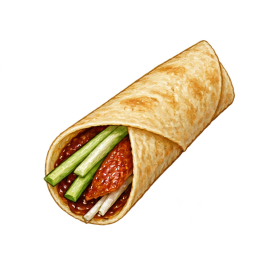
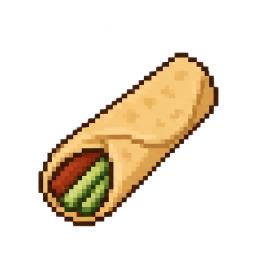
docs: redraw food and gesture assets in pixel game style

Changed region(s): [[0.125, 0.1562, 0.9375, 0.9062]]

diff --git a/docs/design/UI-KIT.md b/docs/design/UI-KIT.md
@@ -46,9 +46,9 @@ English uses Bree Serif at 36 / 28 / 24 / 20 / 16 px for display, title, control
 
 ## Food and numbered gestures / 食物与数字手势
 
-The [food and gesture board](FOOD-AND-GESTURES.md) supplies six food illustrations, hands for 1–5 and a fist, and a reusable hint card with swap properties. The earlier clipboard and simplified hand outlines are auxiliary control icons; they do not fulfil the food-icon and numbered-gesture annotations.
+The [food and gesture board](FOOD-AND-GESTURES.md) supplies six food illustrations in a simplified pixel game style, matching hands for 1–5 and a fist, and a reusable hint card with swap properties. The earlier clipboard and simplified hand outlines are auxiliary control icons; they do not fulfil the food-icon and numbered-gesture annotations.
 
-[食物与手势展示板](FOOD-AND-GESTURES.md)提供六种食物插画、数字 1—5 与握拳，以及支持替换素材的提示卡。之前的夹板和简化手形是辅助控件图标，不能代替标注所指的食物图标和数字手势。
+[食物与手势展示板](FOOD-AND-GESTURES.md)提供六种像素游戏风格食物插画、同风格的数字 1—5 与握拳，以及支持替换素材的提示卡。之前的夹板和简化手形是辅助控件图标，不能代替标注所指的食物图标和数字手势。
 
 Use **4 → Hawthorn Strips / 山楂条**. The red hawthorn illustration replaces the mistakenly generated green garnish; the older reference image is annotated rather than silently treated as correct. Individual PNGs retain transparent backgrounds.
 

diff --git a/docs/design/README.md b/docs/design/README.md
@@ -18,9 +18,9 @@ The [UI Kit additions](https://www.figma.com/design/OUk4C7fCqrzPmnOuzZpYGZ?node-
 
 ## Food and gesture assets / 食物与手势素材
 
-The [food and gesture components](FOOD-AND-GESTURES.md) add six food illustrations and the 1–5 plus fist hand set. The fourth ingredient is red hawthorn strips, correcting the green garnish and “Pickled Radish” in the older generated reference. Each asset has its own transparent PNG; the order tickets now reuse the food icons.
+The [food and gesture components](FOOD-AND-GESTURES.md) add six food illustrations and the 1–5 plus fist hand set in a shared pixel game style. The fourth ingredient is red hawthorn strips, correcting the green garnish and “Pickled Radish” in the older generated reference. Each asset has its own transparent PNG; the order tickets now reuse the food icons.
 
-[食物与手势组件](FOOD-AND-GESTURES.md)补齐六种食物插画、数字 1—5 和握拳手势。第 4 项为红色山楂条，纠正旧生成参考中的绿色配菜和“Pickled Radish”错误。每个素材均有独立透明 PNG，点单小票也已复用这套食物图标。
+[食物与手势组件](FOOD-AND-GESTURES.md)补齐同一像素游戏风格的六种食物插画、数字 1—5 和握拳手势。第 4 项为红色山楂条，纠正旧生成参考中的绿色配菜和“Pickled Radish”错误。每个素材均有独立透明 PNG，点单小票也已复用这套食物图标。
 
 ![Food and gesture component sheet](exports/ui-kit/food_gestures.png)
 

diff --git a/docs/WEEKLY-PROGRESS.md b/docs/WEEKLY-PROGRESS.md
@@ -88,6 +88,14 @@ Goal: bring observations from another person trying the experience and choose an
 
 本次纠正“订单图标”和“手势”的理解，完成实际食物插画、数字手势、透明素材与可替换提示卡。第 4 项统一为红色山楂条；设计原型和运行时实现继续分开记录。
 
+### 22 November: food and hand visual revision
+
+- I redrew the six food icons and six hand illustrations after feedback that their first rendering looked too realistic. The current set uses warm colour blocks, clear pixel contours, rounded silhouettes and simplified shading.
+- Replaced the illustration fills inside the existing main components. Their IDs, hint-card properties, ingredient mapping and prototype connections stay in place, so existing instances update together.
+- Refreshed the twelve transparent 256 × 256 PNGs, both source atlases, the component board and four affected order-page previews. Checked assembled layouts, hand counts, alpha channels and export records. This updates Figma assets only; no runtime or player trial was performed.
+
+本次按反馈调整食物与手势画风，减少写实纹理，统一为像素游戏插画。红色山楂条、数字对应关系和组件结构保持一致，已有实例同步更新。
+
 ## Class week of 26 November 2026: delivery candidate
 
 Goal: test a runnable build, deployment or installation setup on the chosen platform.

diff --git a/CREDITS.md b/CREDITS.md
@@ -22,6 +22,10 @@ The food-icon and numbered-gesture pass also used Figma AI. It produced two sour
 
 食物图标和数字手势这一轮也使用了 Figma AI，生成两张源图集，再整理成独立位图组件与透明 PNG。Codex 协助素材整理、提示卡替换属性、配料行图标对应和导出检查。山楂条修正依据组内澄清：第 4 项食材为红色山楂条。
 
+The current food and hand artwork is a Figma AI-assisted redraw in a simplified pixel game style, revised after feedback on the earlier realistic rendering. The source atlases, individual PNGs and Figma instances were updated together.
+
+当前食物与手势使用 Figma AI 辅助重绘为简化像素游戏风格，依据对上一版偏写实效果的反馈调整。源图集、独立 PNG 和 Figma 实例已同步更新。
+
 ## Art and design sources / 美术与设计来源
 
 The [design page](docs/design/README.md) links our Figma work and exported files. The [manifest](docs/design/exports/manifest.json) records the source node for each export. The selected reference image’s creator and runtime-use permission still need to be added before those textures are published as game assets.

diff --git a/docs/PROJECT-STATUS.md b/docs/PROJECT-STATUS.md
@@ -4,6 +4,10 @@ Updated 19 November 2026, Hong Kong time. I am JIN Minyi (`IceyHikari`). I keep 
 
 ## 22 November: food and gesture correction
 
+The current food and hand exports have been redrawn in a simplified pixel game style. Existing component identities and prototype links are preserved.
+
+当前食物和手势导出已重绘为简化像素游戏风格，保留原组件标识与原型连线。
+
 The [food and gesture assets](design/FOOD-AND-GESTURES.md) now cover the actual annotation: six food illustrations, hands for numbers 1–5 and a fist, and a reusable hint card. Ingredient 4 is red hawthorn strips. The order prototype reuses the food icons, and the repository contains the individual transparent PNGs, source atlases and refreshed previews. Godot recipes and gesture recognition were not changed.
 
 [食物与手势素材](design/FOOD-AND-GESTURES.md)已按原标注意图补齐六种食物插画、数字 1—5、握拳及通用提示卡。第 4 项为红色山楂条，点单原型已复用食物图标。独立透明 PNG、源图集和更新后的预览均已归档；没有修改 Godot 配方或手势识别。

diff --git a/docs/design/FOOD-AND-GESTURES.md b/docs/design/FOOD-AND-GESTURES.md
@@ -4,6 +4,10 @@ I use the same food illustrations on the order tickets and in the preparation hi
 
 我把同一套食物插画用于订单小票和料理提示，让玩家先认出食材，再选择对应手势。数字手势、食物、文字与面板边框分别保留，组合时不用重新裁整张界面。
 
+I redrew the set with warm colour blocks, clear pixel contours and simple shading. The food shapes and hands stay rounded and readable at small sizes, with fewer surface details. The same components and ingredient mapping continue to drive the ticket icons and hint-card examples.
+
+我把这套素材重绘为暖色像素游戏插画，使用清楚轮廓、简化色块和少量明暗。食物与手形保持圆润，小尺寸下也容易辨认，并减少表面细节。小票和提示卡继续使用原来的组件与食材对应关系。
+
 [Open the components in Figma](https://www.figma.com/design/OUk4C7fCqrzPmnOuzZpYGZ?node-id=252-2582)
 
 [打开 Figma 组件](https://www.figma.com/design/OUk4C7fCqrzPmnOuzZpYGZ?node-id=252-2582)
